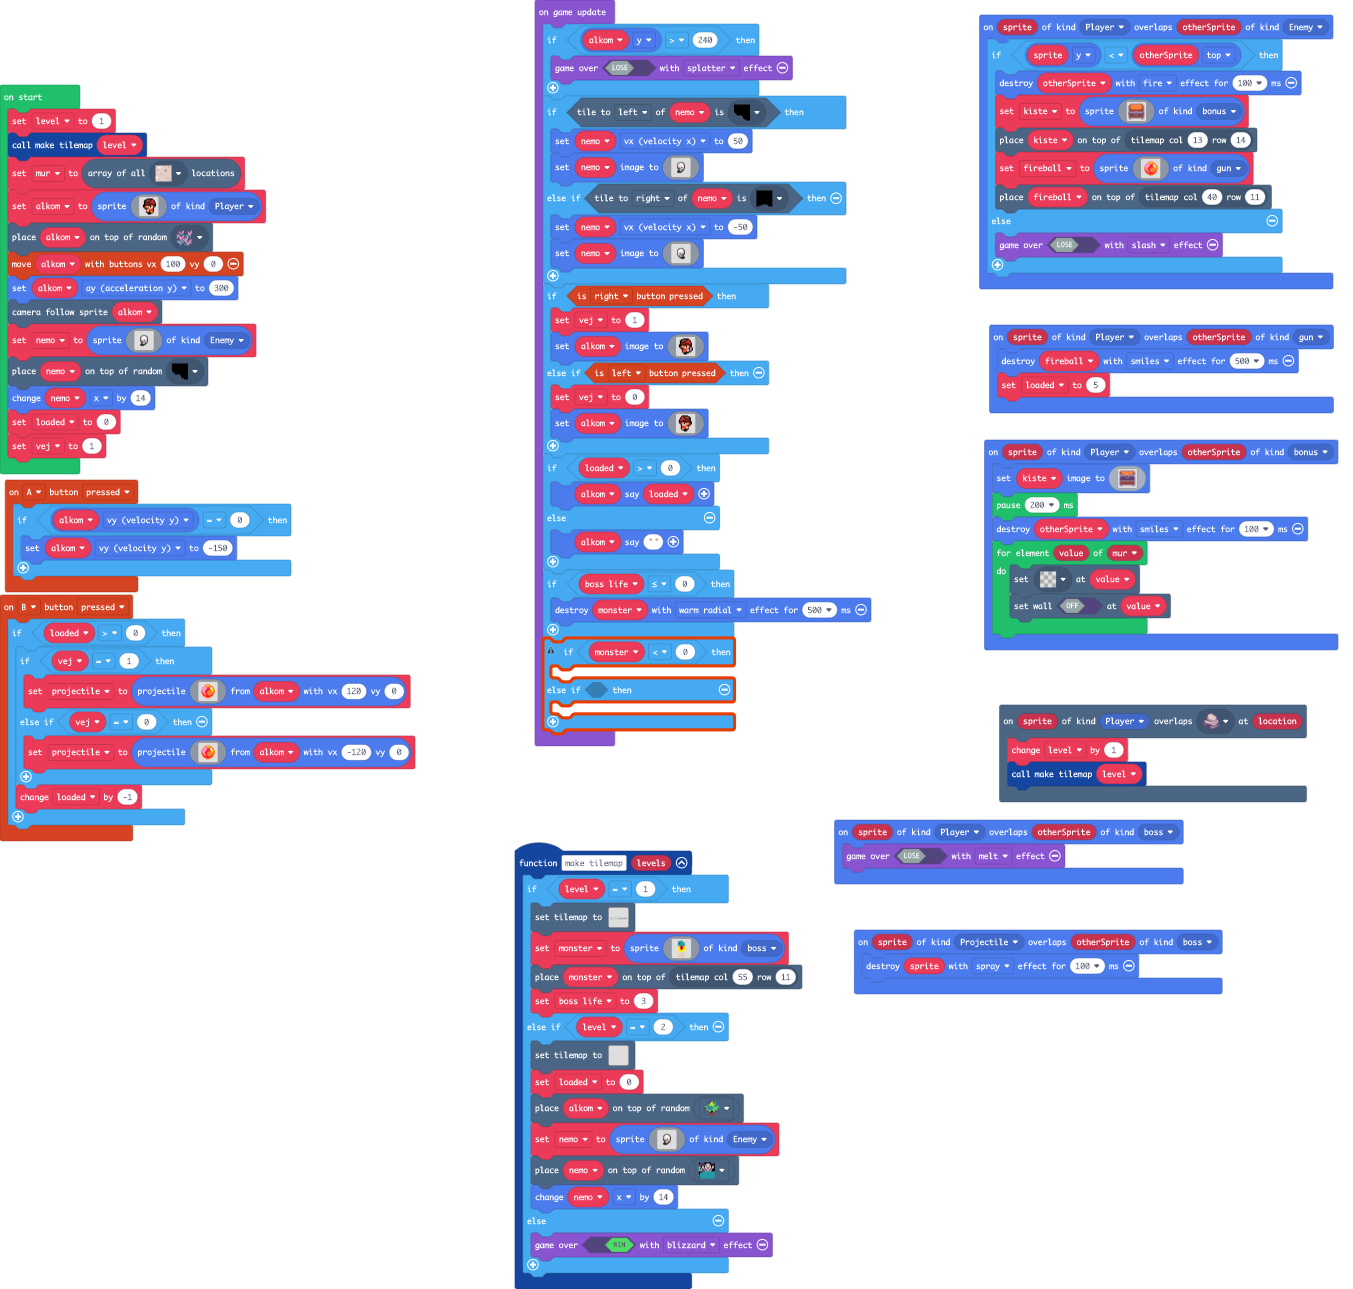
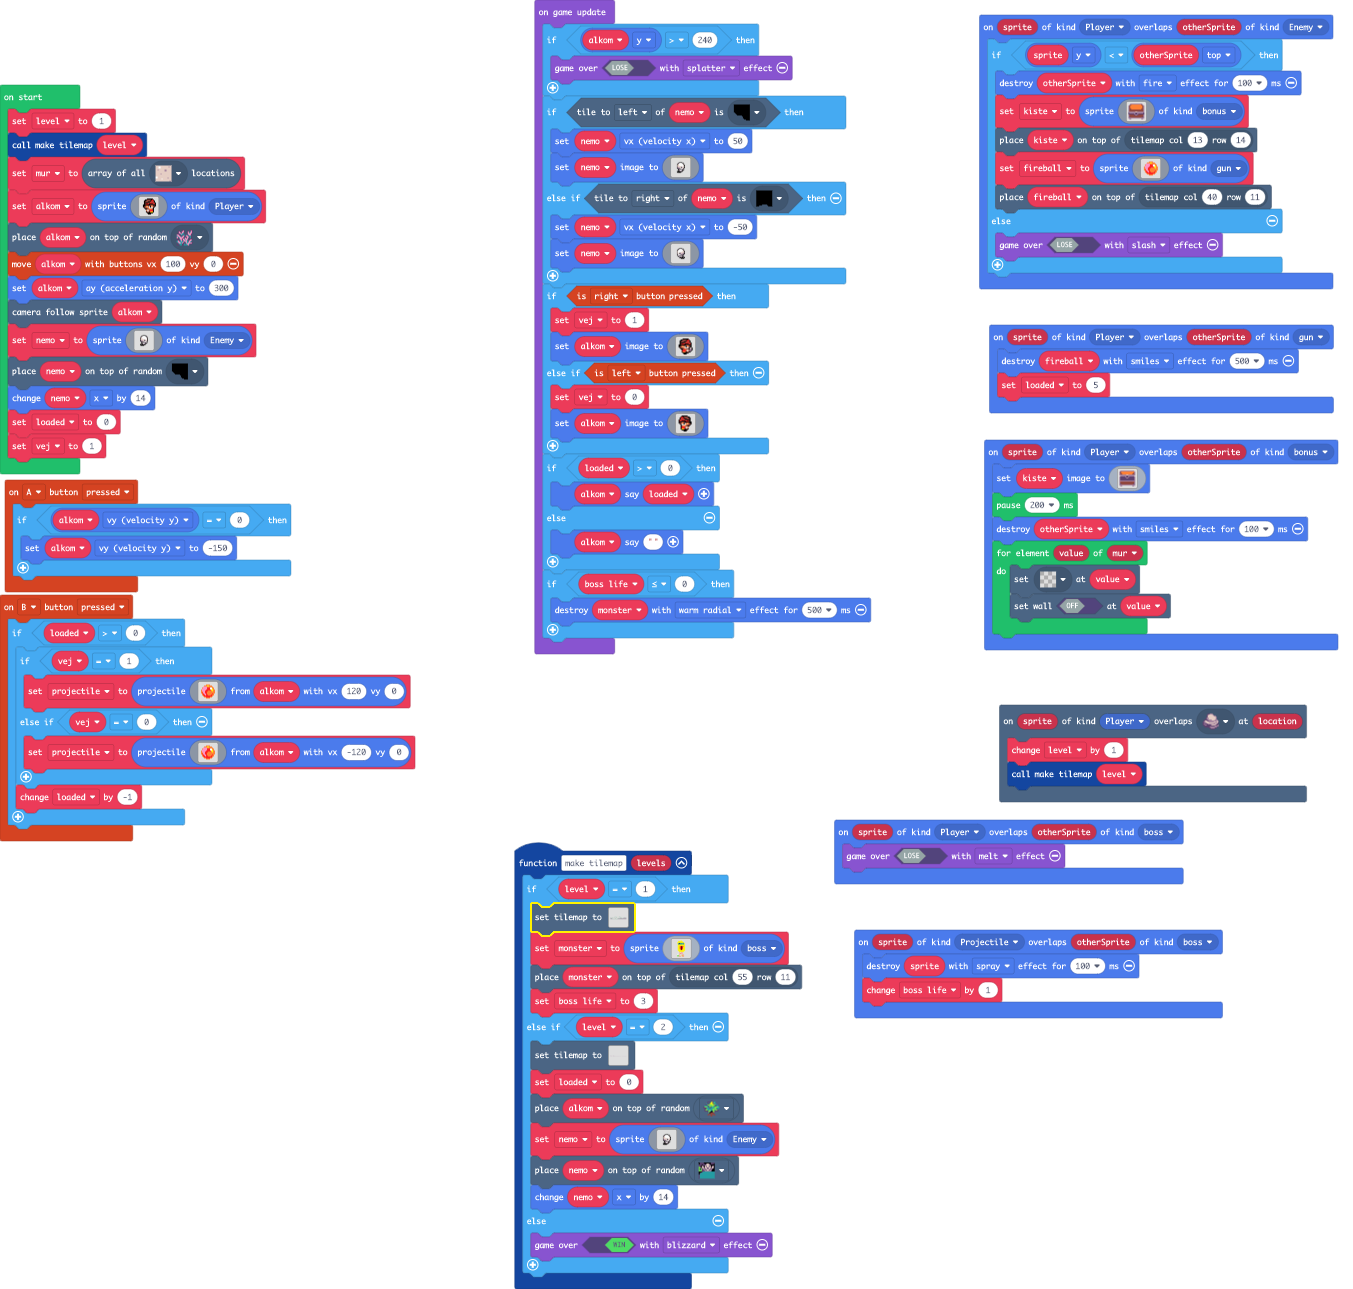
Update main.blocks, main.ts

diff --git a/main.ts b/main.ts
@@ -68,24 +68,24 @@ function make_tilemap (levels: number) {
             ...........................2....2...........................2.....2...
             ...........................2....2.........................2.....2.....
             22.......22222...2222......2....2...........222222.......2.........222
-            .222222222...........2..........2...222...222..2.2......2.............
+            .222222222...........2..........2...222...222....2......2.............
             .....................22.........2.222..2222......222222222............
             ......................22........222...................................
             ..............................222.....................................
             ............222..22222222222222.......................................
             `, [myTiles.transparency16,sprites.builtin.forestTiles0,sprites.builtin.oceanDepths8,sprites.builtin.oceanDepths9,sprites.castle.tilePath5,myTiles.tile2,sprites.castle.rock0,sprites.builtin.oceanDepths4,sprites.builtin.oceanDepths0,sprites.builtin.coral5,sprites.builtin.oceanDepths3], TileScale.Sixteen))
         monster = sprites.create(img`
-            .......66.......
-            ..66666666......
-            ..6666666666....
-            .666666666666...
-            .6666666666666..
-            .661f6666666666.
-            .66ff6666661666.
-            .66666666666666.
-            .66666666666666.
-            .66666666666666.
-            .66666666666666.
+            .......55.......
+            ..55555555......
+            ..5555555555....
+            .555555555555...
+            55555555555555..
+            5561f6666666665.
+            .56ff6666661665.
+            .56666666666665.
+            .55555555555555.
+            .555555555555555
+            .55555555555555.
             .5555222f222255.
             .5555222f2225555
             .5555222f2225555
@@ -98,15 +98,15 @@ function make_tilemap (levels: number) {
             ..55555555555555
             ...55555555555..
             ....555555555...
-            .....4.....4....
-            .....4.....4....
-            .....44....4....
-            .....4.....4....
-            .....4.....4....
-            .....4.....44...
-            .....4.....4....
-            .....4.....4....
-            ...44444.44444..
+            .....4.333.4....
+            .....4..3..4....
+            .....44.33.4....
+            .....44.33.4....
+            111..4...3.4....
+            .1...4...5.44...
+            7177.4..5.44....
+            777..4.....44...
+            7.744444.44444..
             `, SpriteKind.boss)
         tiles.placeOnTile(monster, tiles.getTileLocation(55, 11))
         boss_life = 3
@@ -200,6 +200,7 @@ scene.onOverlapTile(SpriteKind.Player, sprites.castle.rock0, function (sprite, l
 })
 sprites.onOverlap(SpriteKind.Projectile, SpriteKind.boss, function (sprite, otherSprite) {
     sprite.destroy(effects.spray, 100)
+    boss_life += 1
 })
 sprites.onOverlap(SpriteKind.Player, SpriteKind.Enemy, function (sprite, otherSprite) {
     if (sprite.y < otherSprite.top) {
@@ -421,10 +422,5 @@ game.onUpdate(function () {
     }
     if (boss_life <= 0) {
         monster.destroy(effects.warmRadial, 500)
-    }
-    if (monster < 0) {
-    	
-    } else if (false) {
-    	
     }
 })
